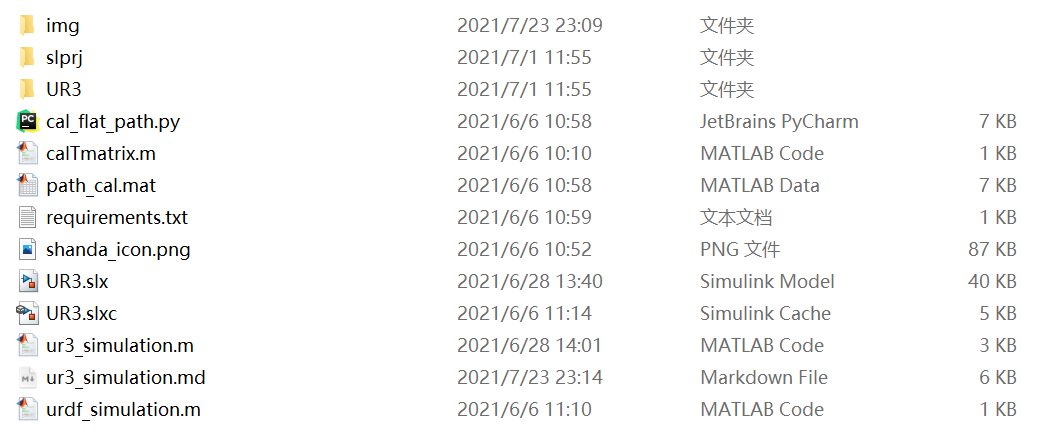
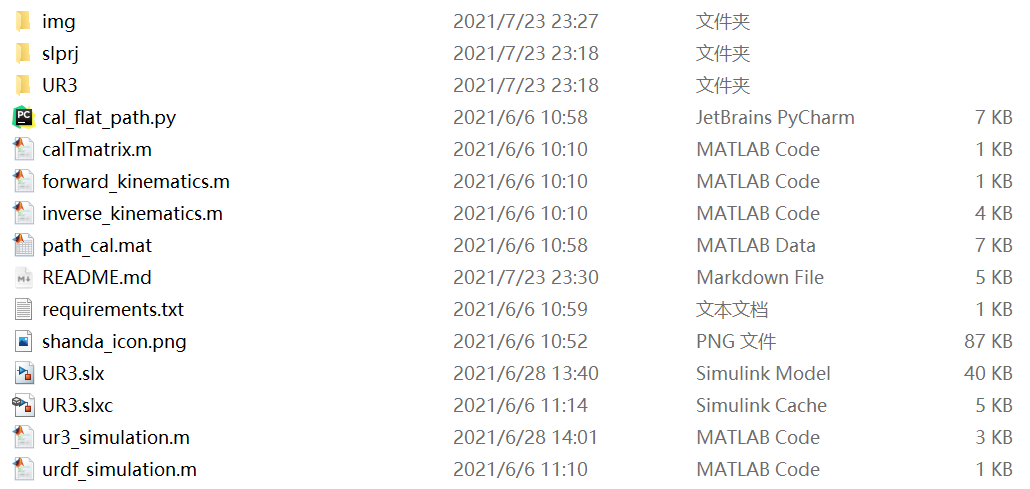
final version

diff --git a/README.md b/README.md
@@ -23,6 +23,8 @@
 + 文件
   + cal_flat_path.py：轨迹点计算python程序
   + calTmatrix.m：matlab运行函数
+  + forward_kinematics.m：正运动学matlab程序
+  + inverse_kinematics.m：逆运动学matlab程序
   + path_cal.mat：“山大”轨迹点路径变量
   + requirements.txt：python运行环境
   + shanda_icon.png：“山大“文字图片
@@ -49,14 +51,7 @@
 
 ### D-H参数表
 
-| #      | $\theta_i$ | $d_i(m)$ | $a_i(m)$ | $\alpha_i(rad)$ |
-| :-: | :-: | :-: | :-:  | :-:  |
-| 1 | $\theta_1$ | 0.15190 |0|$\frac{\pi}{2}$|
-| 2 | $\theta_2$ | 0 |-0.24365|0|
-| 3 | $\theta_3$ | 0 |-0.21300|0|
-| 4 | $\theta_4$ | 0.08340 |0|$\frac{\pi}{2}$|
-| 5 | $\theta_5$ | 0.08340 |0|$-\frac{\pi}{2}$|
-| 6 | $\theta_6$ | 0.08240 |0|0|
+<img src="./img/img15.png">
 
 
 
